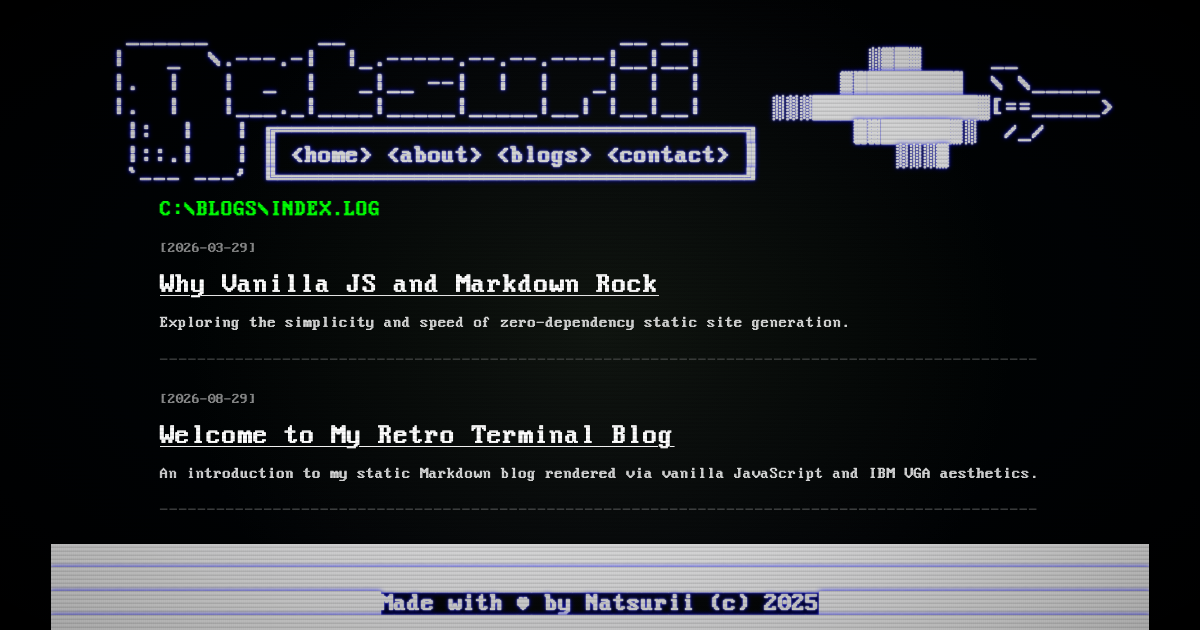
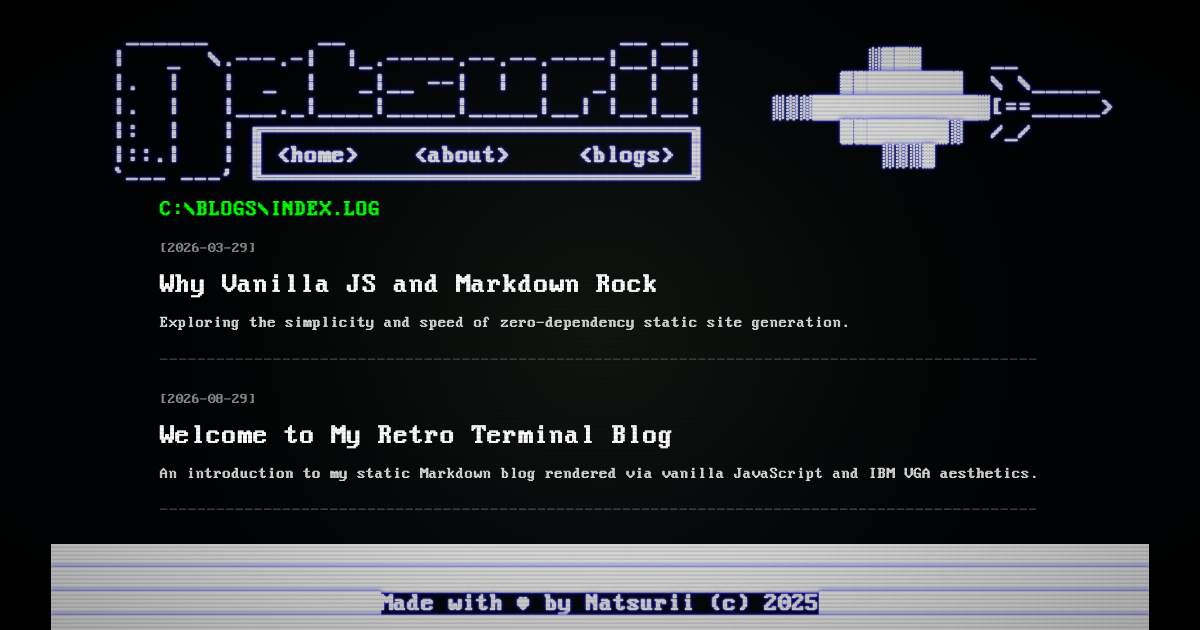
Revert "feat: contact page + pages function email worker (resend, turnstile)"
This reverts commit f8154fc1c14afa9acf94a5b026b5e790ee165c77.

Changed region(s): [[0.0925, 0.181, 0.6475, 0.3016], [0.6783, 0.181, 0.8942, 0.2714]]

diff --git a/style.css b/style.css
@@ -561,75 +561,6 @@ a:hover {
   margin: 8px 0;
 }
 
-/* ============ Contact form (terminal panel) ============ */
-.contact-status {
-  color: var(--accent);
-  margin: 14px 0 4px;
-  min-height: 1.6em;
-}
-
-.contact-form {
-  margin-top: 12px;
-  border: 1px solid var(--border);
-  background: var(--code-bg);
-  padding: 12px;
-}
-
-.contact-form label {
-  display: block;
-  color: var(--accent);
-  margin: 8px 0 2px;
-}
-
-.contact-form label:first-child {
-  margin-top: 0;
-}
-
-.contact-form input,
-.contact-form textarea {
-  width: 100%;
-  background: transparent;
-  border: 1px solid var(--divider);
-  color: var(--text);
-  font-family: 'IBM VGA', monospace;
-  font-size: 1em;
-  padding: 6px 8px;
-}
-
-.contact-form textarea {
-  resize: vertical;
-  min-height: 120px;
-}
-
-.contact-form .cf-turnstile {
-  margin-top: 12px;
-}
-
-.contact-form button {
-  margin-top: 12px;
-  padding: 8px 14px;
-  background: var(--code-bg);
-  border: 1px solid var(--accent);
-  color: var(--accent);
-  font-family: 'IBM VGA', monospace;
-  font-size: 1em;
-  cursor: pointer;
-}
-
-.contact-form button:disabled {
-  opacity: 0.5;
-  cursor: wait;
-}
-
-/* Honeypot: off-screen, unfocusable, ignored by real users */
-.hp-field {
-  position: absolute;
-  left: -9999px;
-  width: 1px;
-  height: 1px;
-  overflow: hidden;
-}
-
 /* Mobile: keep everything inside the viewport width */
 @media screen and (max-width: 480px) {
   html, body {

diff --git a/about.html b/about.html
@@ -50,7 +50,6 @@
     <a href="index.html">Home</a>
     <a href="about.html">About</a>
     <a href="blogs.html">Blogs</a>
-    <a href="contact.html">Contact</a>
   </nav>
   <header class="ascii-container" aria-hidden="true"></header>
   <main id="main" class="ascii-container blog-list-container markdown-container">
@@ -108,7 +107,6 @@
         addHyperlinkToText('header', '<home>', 'index.html');
         addHyperlinkToText('header', '<about>', 'about.html');
         addHyperlinkToText('header', '<blogs>', 'blogs.html');
-        addHyperlinkToText('header', '<contact>', 'contact.html');
     });
     asciiToHTML('./components/footer.utf8ans', 'footer', 2, 5);
   });

diff --git a/blogs/building-static-sites.html b/blogs/building-static-sites.html
@@ -70,7 +70,6 @@
     <a href="../index.html">Home</a>
     <a href="../about.html">About</a>
     <a href="../blogs.html">Blogs</a>
-    <a href="../contact.html">Contact</a>
   </nav>
   <header class="ascii-container" aria-hidden="true"></header>
   <main id="main" class="ascii-container markdown-container">
@@ -94,7 +93,6 @@
         addHyperlinkToText('header', '<home>', '../index.html');
         addHyperlinkToText('header', '<about>', '../about.html');
         addHyperlinkToText('header', '<blogs>', '../blogs.html');
-        addHyperlinkToText('header', '<contact>', '../contact.html');
     });
     asciiToHTML('../components/footer.utf8ans', 'footer', 2, 5);
 

diff --git a/blogs/welcome-to-my-blog.html b/blogs/welcome-to-my-blog.html
@@ -70,7 +70,6 @@
     <a href="../index.html">Home</a>
     <a href="../about.html">About</a>
     <a href="../blogs.html">Blogs</a>
-    <a href="../contact.html">Contact</a>
   </nav>
   <header class="ascii-container" aria-hidden="true"></header>
   <main id="main" class="ascii-container markdown-container">
@@ -94,7 +93,6 @@
         addHyperlinkToText('header', '<home>', '../index.html');
         addHyperlinkToText('header', '<about>', '../about.html');
         addHyperlinkToText('header', '<blogs>', '../blogs.html');
-        addHyperlinkToText('header', '<contact>', '../contact.html');
     });
     asciiToHTML('../components/footer.utf8ans', 'footer', 2, 5);
 

diff --git a/blogs.html b/blogs.html
@@ -50,7 +50,6 @@
     <a href="index.html">Home</a>
     <a href="about.html">About</a>
     <a href="blogs.html">Blogs</a>
-    <a href="contact.html">Contact</a>
   </nav>
   <header class="ascii-container" aria-hidden="true"></header>
   <main id="main" class="ascii-container blog-list-container">
@@ -70,7 +69,6 @@
         addHyperlinkToText('header', '<home>', 'index.html');
         addHyperlinkToText('header', '<about>', 'about.html');
         addHyperlinkToText('header', '<blogs>', 'blogs.html');
-        addHyperlinkToText('header', '<contact>', 'contact.html');
     });
     asciiToHTML('./components/footer.utf8ans', 'footer', 2, 5);
 

diff --git a/index.html b/index.html
@@ -50,7 +50,6 @@
       <a href="index.html">Home</a>
       <a href="about.html">About</a>
       <a href="blogs.html">Blogs</a>
-      <a href="contact.html">Contact</a>
     </nav>
     <header class="ascii-container" aria-hidden="true"></header>
     <main id="main">
@@ -70,7 +69,6 @@
           addHyperlinkToText('header', '<home>', 'index.html');
           addHyperlinkToText('header', '<about>', 'about.html');
           addHyperlinkToText('header', '<blogs>', 'blogs.html');
-          addHyperlinkToText('header', '<contact>', 'contact.html');
 
       });
       asciiToHTML('./components/footer.utf8ans', 'footer', 2, 5);

diff --git a/404.html b/404.html
@@ -51,7 +51,6 @@
     <a href="index.html">Home</a>
     <a href="about.html">About</a>
     <a href="blogs.html">Blogs</a>
-    <a href="contact.html">Contact</a>
   </nav>
   <header class="ascii-container" aria-hidden="true"></header>
   <main id="main">
@@ -75,7 +74,6 @@
         addHyperlinkToText('header', '<home>', 'index.html');
         addHyperlinkToText('header', '<about>', 'about.html');
         addHyperlinkToText('header', '<blogs>', 'blogs.html');
-        addHyperlinkToText('header', '<contact>', 'contact.html');
 
     });
 

diff --git a/build.py b/build.py
@@ -77,7 +77,6 @@ TEMPLATE = """<!--
     <a href="../index.html">Home</a>
     <a href="../about.html">About</a>
     <a href="../blogs.html">Blogs</a>
-    <a href="../contact.html">Contact</a>
   </nav>
   <header class="ascii-container" aria-hidden="true"></header>
   <main id="main" class="ascii-container markdown-container">
@@ -101,7 +100,6 @@ TEMPLATE = """<!--
         addHyperlinkToText('header', '<home>', '../index.html');
         addHyperlinkToText('header', '<about>', '../about.html');
         addHyperlinkToText('header', '<blogs>', '../blogs.html');
-        addHyperlinkToText('header', '<contact>', '../contact.html');
     }});
     asciiToHTML('../components/footer.utf8ans', 'footer', 2, 5);
 
@@ -137,8 +135,7 @@ def main():
     sitemap_urls = [
         f"  <url>\n    <loc>{DOMAIN}/index.html</loc>\n    <changefreq>monthly</changefreq>\n    <priority>1.0</priority>\n  </url>",
         f"  <url>\n    <loc>{DOMAIN}/blogs.html</loc>\n    <changefreq>weekly</changefreq>\n    <priority>0.8</priority>\n  </url>",
-        f"  <url>\n    <loc>{DOMAIN}/about.html</loc>\n    <changefreq>monthly</changefreq>\n    <priority>0.8</priority>\n  </url>",
-        f"  <url>\n    <loc>{DOMAIN}/contact.html</loc>\n    <changefreq>monthly</changefreq>\n    <priority>0.7</priority>\n  </url>"
+        f"  <url>\n    <loc>{DOMAIN}/about.html</loc>\n    <changefreq>monthly</changefreq>\n    <priority>0.8</priority>\n  </url>"
     ]
 
     for post in posts:

diff --git a/ENHANCEMENTS.md b/ENHANCEMENTS.md
@@ -43,13 +43,6 @@ Line numbers below are anchors (file/section), not exact lines — re-locate whe
 - [x] Blog dates: decided — keep retro `[2026-03-29]` display, wrapped in `<time datetime>` for semantics (no `Intl.DateTimeFormat`)
 - [x] Bonus: `parseMarkdown` blockquote regex fixed (`^> ` never matched — `>` is escaped to `&gt;` before that step, so blockquotes rendered as plain text)
 
-## Contact page — done
-
-- [x] `contact.html`: retro terminal form (name/email/message) + status box (`#contact-status`, `aria-live="polite"`), Turnstile div, honeypot field
-- [x] `functions/api/contact.js` (Pages Function): validate → honeypot → Turnstile siteverify (skipped while `TURNSTILE_SECRET` secret unset) → Resend API → `natsurii@protonmail.com`; key via Pages secret, never in source
-- [x] `header.utf8ans`: nav box widened, `<contact>` token; sr-nav + art link on all pages; sitemap += contact.html; `contact.png` og card via make_og.py
-- [ ] User setup (dashboard): Resend API key → Pages secret `RESEND_API_KEY`; Turnstile widget sitekey → `contact.html` `data-sitekey` + Pages secret `TURNSTILE_SECRET`
-
 ## Notes
 
 - build.py is the source of truth for `blogs/*.html` — fix the template, then run `python3 build.py`
